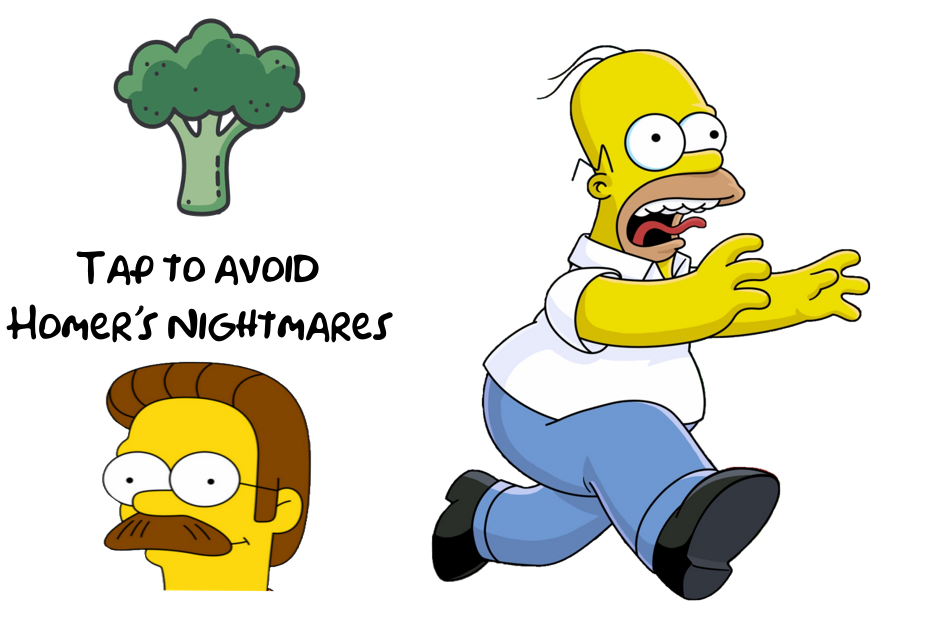
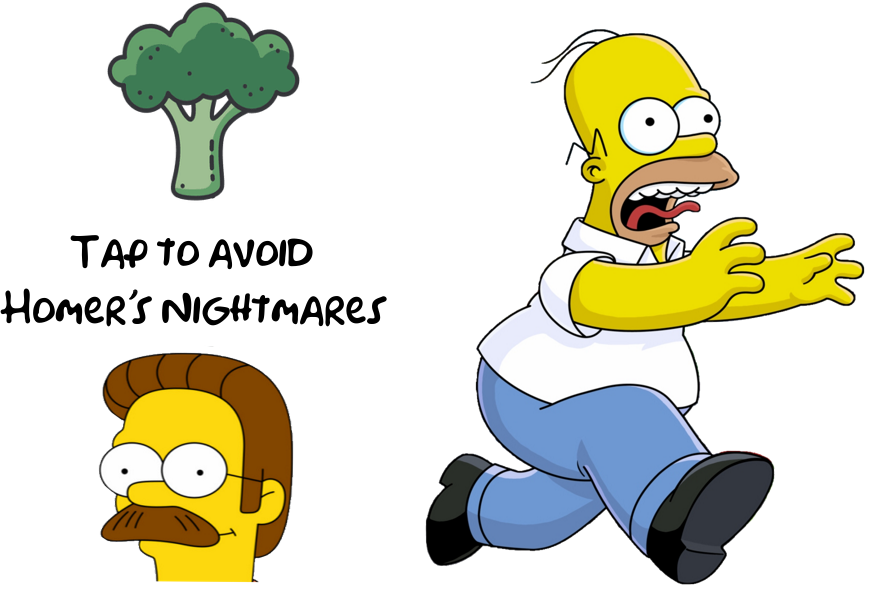
modification modal Rules

diff --git a/src/components/GameRules.js b/src/components/GameRules.js
@@ -3,31 +3,23 @@ import doughnut from "../Design/Projectiles/doughnut.png"
 import duff from "../Design/Projectiles/duff.png"
 import homerRules from "../Design/GameRules/homerRule.gif"
 import tapRule from "../Design/GameRules/tapRule.png"
-import "./GameRules.css"
+import "./modal.css"
 
-
-
-const itemsStyle ={
-    width: "10vw",
-    top: "20vh"
-}
 
 class GameRules extends Component{
 render(){
-    return <div id= "ruleModalOpacity">
-        <div id="GameRules-background">
-            <div id = "swipe">
-                <img src={doughnut} style = {itemsStyle} alt=""></img>
-                <img src={homerRules} style = {{width : "50vw"}} alt = ""></img>
-                <img src={duff} style = {itemsStyle} alt = ""></img>
-            </div>
-            <img src={tapRule} 
-            style = {{width: "60vw",
-             left: "20vw", position: "fixed",
-              top : "50vh"}} alt = ""></img>
+    return (
+    <div className= "containerRules">
+        <div>
+            <img src={doughnut} style = {{width: "10vw",top: "20vh", zIndex: "2003"}} alt=""></img>
+            <img src={homerRules} style = {{width : "50vw", zIndex: "2003"}} alt = ""></img>
+            <img src={duff} style = {{width: "10vw",top: "20vh", zIndex: "2003"}} alt = ""></img>
+        </div>
+        <div>
+            <img src={tapRule} style = {{width: "60vw", left: "20vw", position: "fixed", top: "50vh", zIndex: "2001"}} alt = ""></img>
         </div>
     </div> 
-       
+    )   
     }
 }
 

diff --git a/src/components/Game.js b/src/components/Game.js
@@ -233,12 +233,12 @@ class Game extends Component {
         {!this.state.win && !this.state.lose && (
           <Button
             outline
-            color="warning"
+            color="primary"
             onClick={e => this.ruleModalDisplay()}
             style={{
               position: "fixed",
-              left: "72vw",
-              top: "2vh",
+              left: "2vw",
+              top: "1vh",
               zIndex: 1500
             }}
           >

diff --git a/src/components/modal.css b/src/components/modal.css
@@ -10,6 +10,15 @@
     z-index: 2000;
 }
 
+.containerRules {
+    position: absolute;
+    top: 0;
+    left: 0;
+    height: 100vh;
+    width: 100vw;
+    background-color: rgba(0, 0, 0, 0.781);
+}
+
 .container-streak {
     display: flex;
     justify-content: center;
@@ -21,6 +30,7 @@
     width: 100vw;
     z-index: 1020;
 }
+
 
 #ModalLose {
     width: 90%;

diff --git a/src/components/Characters.js b/src/components/Characters.js
@@ -9,12 +9,12 @@ const charactersStyle = {
 const bartStyle = {
   height: "20vh",
   top: "1vh",
-  zIndex: -1
+  zIndex: -3
 };
 const homerStyle = {
   bottom: "-5vh",
   height: "40vh",
-  zIndex: 2
+  zIndex: -1
 };
 class Characters extends Component {
   render() {

diff --git a/src/components/Projectile.js b/src/components/Projectile.js
@@ -93,7 +93,8 @@ const styles = {
   projectile: {
     position: "absolute",
     filter: "drop-shadow(-20px 30px 4px rgba(0, 0, 0, 0.3))",
-    transition: "opacity 1s"
+    transition: "opacity 1s",
+    zIndex: -2
   }
 };
 
